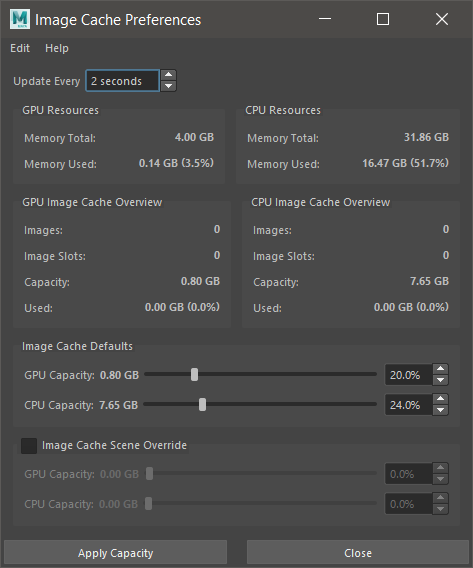
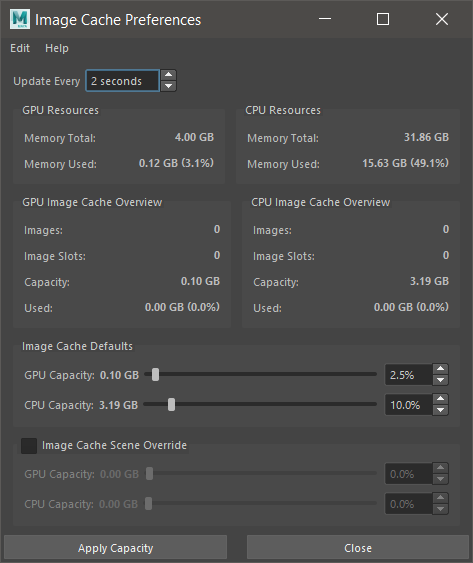
Image Cache - change default capacity values
The logic is written in the comments, but the general idea is to pick a
low value of the capacity for some users with low-end machines working
with HD footage.

diff --git a/python/mmSolver/tools/imagecache/constant.py b/python/mmSolver/tools/imagecache/constant.py
@@ -29,11 +29,36 @@ CACHE_TYPE_VALUES = [
 
 CONFIG_FILE_NAME = 'tools_imagecache.json'
 
-CONFIG_GPU_CAPACITY_PERCENT_KEY = 'data/gpu_capacity_percent'
-CONFIG_GPU_CAPACITY_PERCENT_DEFAULT_VALUE = 0.0
 
+# The default values below are based on the following minimum/average data load:
+#
+# Single image size:
+# >>> width = 1920
+# >>> height = 1080
+# >>> num_channels = 3
+# >>> image_byte_size = width * height * num_channels  # 6220800 Bytes
+# A image is at least 6.2208 MB each frame.
+#
+# Image Sequence size:
+# >>> frame_count = 200
+# >>> image_byte_size * frame_count  # 1244160000 Bytes
+# The average image sequence will take up about 1.24416 GB of memory.
+#
+# We also guess that the user has at least 4GB of GPU memory, and 32GB
+# of CPU memory, and we assume the user wants to have 3 different Maya
+# sessions running at once, each with an image sequence loaded.
+#
+# 100 MB (2.5% of 4GB) of GPU memory allows ~16 1080p HD images stored
+# in memory at once. For large (4K) images this means perhaps only one
+# image will be stored in the Image Cache.
+CONFIG_GPU_CAPACITY_PERCENT_KEY = 'data/gpu_capacity_percent'
+CONFIG_GPU_CAPACITY_PERCENT_DEFAULT_VALUE = 2.5
+
+# 3.2 GB (10%) of CPU memory allows ~514 1080p HD images stored in
+# memory at once. This is a reasonable amount of CPU memory, but can
+# easily be consumed for larger images or longer frame ranges.
 CONFIG_CPU_CAPACITY_PERCENT_KEY = 'data/cpu_capacity_percent'
-CONFIG_CPU_CAPACITY_PERCENT_DEFAULT_VALUE = 0.0
+CONFIG_CPU_CAPACITY_PERCENT_DEFAULT_VALUE = 10.0
 
 SCENE_OPTION_CAPACITY_OVERRIDE_KEY = 'mmSolver_imagecache_capacity_override'
 SCENE_OPTION_CAPACITY_OVERRIDE_DEFAULT_VALUE = False
